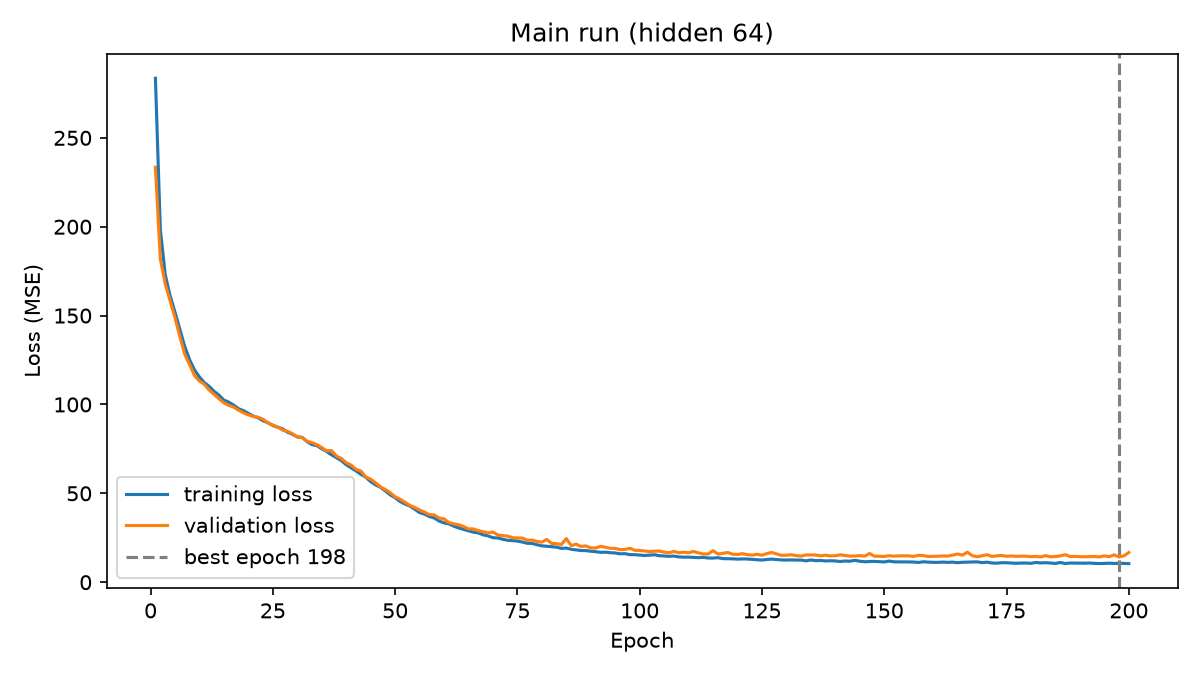
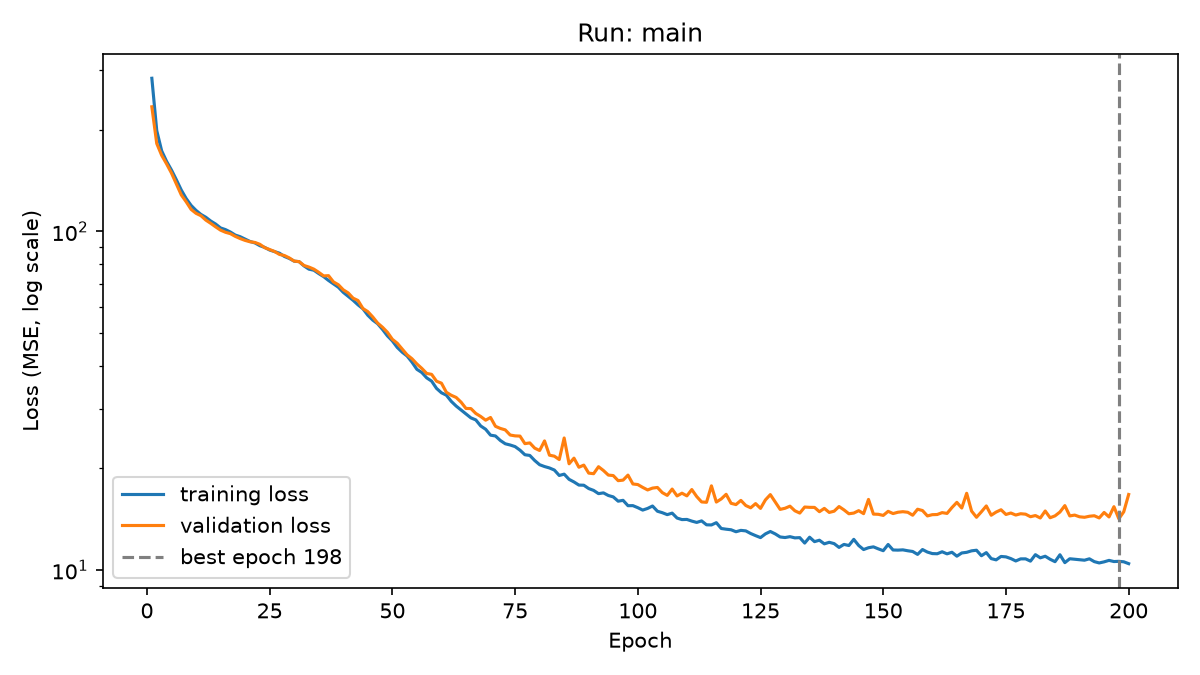
Add experiments and per-run learning curves

diff --git a/train.py b/train.py
@@ -15,6 +15,19 @@ from prepare import make_loaders
 REPORTS = Path("reports")
 SEED = 2026
 
+MAIN_RUN = {
+    "name": "main",
+    "hidden": 64,
+    "lr": 0.001,
+    "batch_size": 64,
+    "epochs": 200,
+}
+EXPERIMENTS = [
+    {**MAIN_RUN, "name": "lr_too_small", "lr": 0.00001},
+    {**MAIN_RUN, "name": "lr_too_large", "lr": 0.1},
+    {**MAIN_RUN, "name": "wide_network", "hidden": 512},
+]
+
 
 def run_epoch(model, loader, loss_fn, optimizer=None):
     """Run one epoch. Trains if given an optimizer, otherwise only measures.
@@ -100,15 +113,48 @@ def baseline_metrics(train_loader, val_loader, test_loader):
     return results
 
 
+def run_experiment(config):
+    """Train one network from the settings in `config`. Seeded, so repeatable."""
+    torch.manual_seed(SEED)
+    train_loader, val_loader, _ = make_loaders(batch_size=config["batch_size"])
+    model = RentalNet(hidden=config["hidden"])
+    loss_fn = nn.MSELoss()
+    optimizer = torch.optim.Adam(model.parameters(), lr=config["lr"])
+    history, best_epoch = train_model(
+        model, train_loader, val_loader, loss_fn, optimizer, config["epochs"]
+    )
+    return model, history, best_epoch
+
+
+def summarize(config, history, best_epoch):
+    """One row of the experiments table."""
+    best = history[best_epoch - 1]
+    last = history[-1]
+    return {
+        "run": config["name"],
+        "hidden": config["hidden"],
+        "lr": config["lr"],
+        "batch_size": config["batch_size"],
+        "epochs": config["epochs"],
+        "best_epoch": best_epoch,
+        "best_val_mae": round(best["val_mae"], 3),
+        "final_train_loss": round(last["train_loss"], 3),
+        "final_val_loss": round(last["val_loss"], 3),
+    }
+
+
 def plot_curves(history, best_epoch, path, title):
     """Plot training and validation loss for every epoch, and mark the best."""
     frame = pd.DataFrame(history)
     fig, ax = plt.subplots(figsize=(8, 4.5))
     ax.plot(frame["epoch"], frame["train_loss"], label="training loss")
     ax.plot(frame["epoch"], frame["val_loss"], label="validation loss")
-    ax.axvline(best_epoch, color="gray", linestyle="--", label=f"best epoch {best_epoch}")
+    ax.axvline(
+        best_epoch, color="gray", linestyle="--", label=f"best epoch {best_epoch}"
+    )
+    ax.set_yscale("log")
     ax.set_xlabel("Epoch")
-    ax.set_ylabel("Loss (MSE)")
+    ax.set_ylabel("Loss (MSE, log scale)")
     ax.set_title(title)
     ax.legend()
     fig.tight_layout()
@@ -117,7 +163,6 @@ def plot_curves(history, best_epoch, path, title):
 
 
 if __name__ == "__main__":
-    torch.manual_seed(SEED)
     REPORTS.mkdir(exist_ok=True)
     train_loader, val_loader, test_loader = make_loaders()
 
@@ -128,23 +173,23 @@ if __name__ == "__main__":
             f"val MSE {scores['val_mse']:8.3f}"
         )
 
-    model = RentalNet(hidden=64)
-    loss_fn = nn.MSELoss()
-    optimizer = torch.optim.Adam(model.parameters(), lr=0.001)
+    rows = []
+    for config in [MAIN_RUN, *EXPERIMENTS]:
+        model, history, best_epoch = run_experiment(config)
+        summary = summarize(config, history, best_epoch)
+        rows.append(summary)
+        print(
+            f"{summary['run']:13s} best epoch {summary['best_epoch']:3d}  "
+            f"best val MAE {summary['best_val_mae']:7.3f}  "
+            f"final train {summary['final_train_loss']:9.3f}  "
+            f"final val {summary['final_val_loss']:9.3f}"
+        )
 
-    history, best_epoch = train_model(
-        model, train_loader, val_loader, loss_fn, optimizer, epochs=200
-    )
-    for row in history:
-        if row["epoch"] % 25 == 0:
-            print(
-                f"epoch {row['epoch']:3d}  train {row['train_loss']:8.3f}  "
-                f"val {row['val_loss']:8.3f}  val MAE {row['val_mae']:6.3f}"
-            )
-    print("best epoch:", best_epoch)
-    print("best val MAE:", round(history[best_epoch - 1]["val_mae"], 3))
+        if config["name"] == "main":
+            pd.DataFrame(history).to_csv(REPORTS / "history.csv", index=False)
+            curve_path = REPORTS / "learning_curves.png"
+        else:
+            curve_path = REPORTS / f"curves_{config['name']}.png"
+        plot_curves(history, best_epoch, curve_path, f"Run: {config['name']}")
 
-    pd.DataFrame(history).to_csv(REPORTS / "history.csv", index=False)
-    plot_curves(
-        history, best_epoch, REPORTS / "learning_curves.png", "Main run (hidden 64)"
-    )
+    pd.DataFrame(rows).to_csv(REPORTS / "experiments.csv", index=False)
